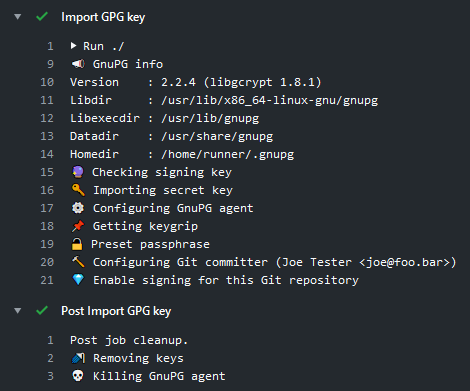
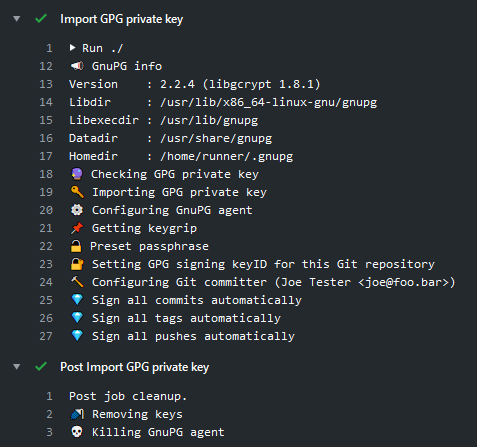
Update CHANGELOG

diff --git a/CHANGELOG.md b/CHANGELOG.md
@@ -1,5 +1,10 @@
 # Changelog
 
+## 1.3.0 (2020/05/06)
+
+* Add `git_tag_gpgsign` and `git_push_gpgsign` inputs
+* Some inputs and secrets have been renamed
+
 ## 1.2.0 (2020/05/05)
 
 * Use `gpg-connect-agent` to seed the internal cache of `gpg-agent`
